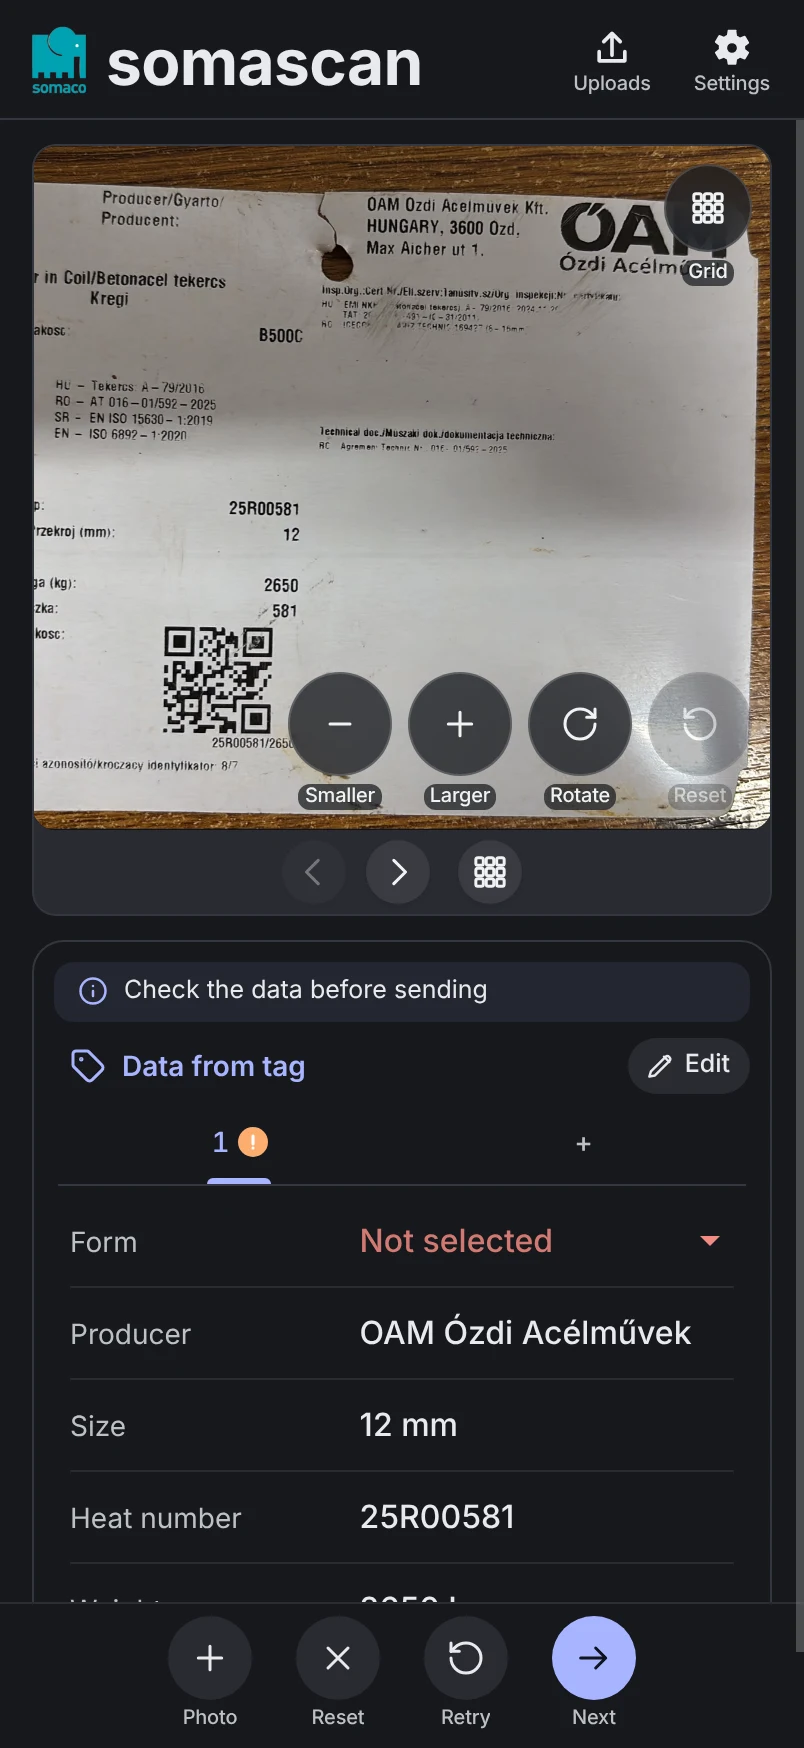
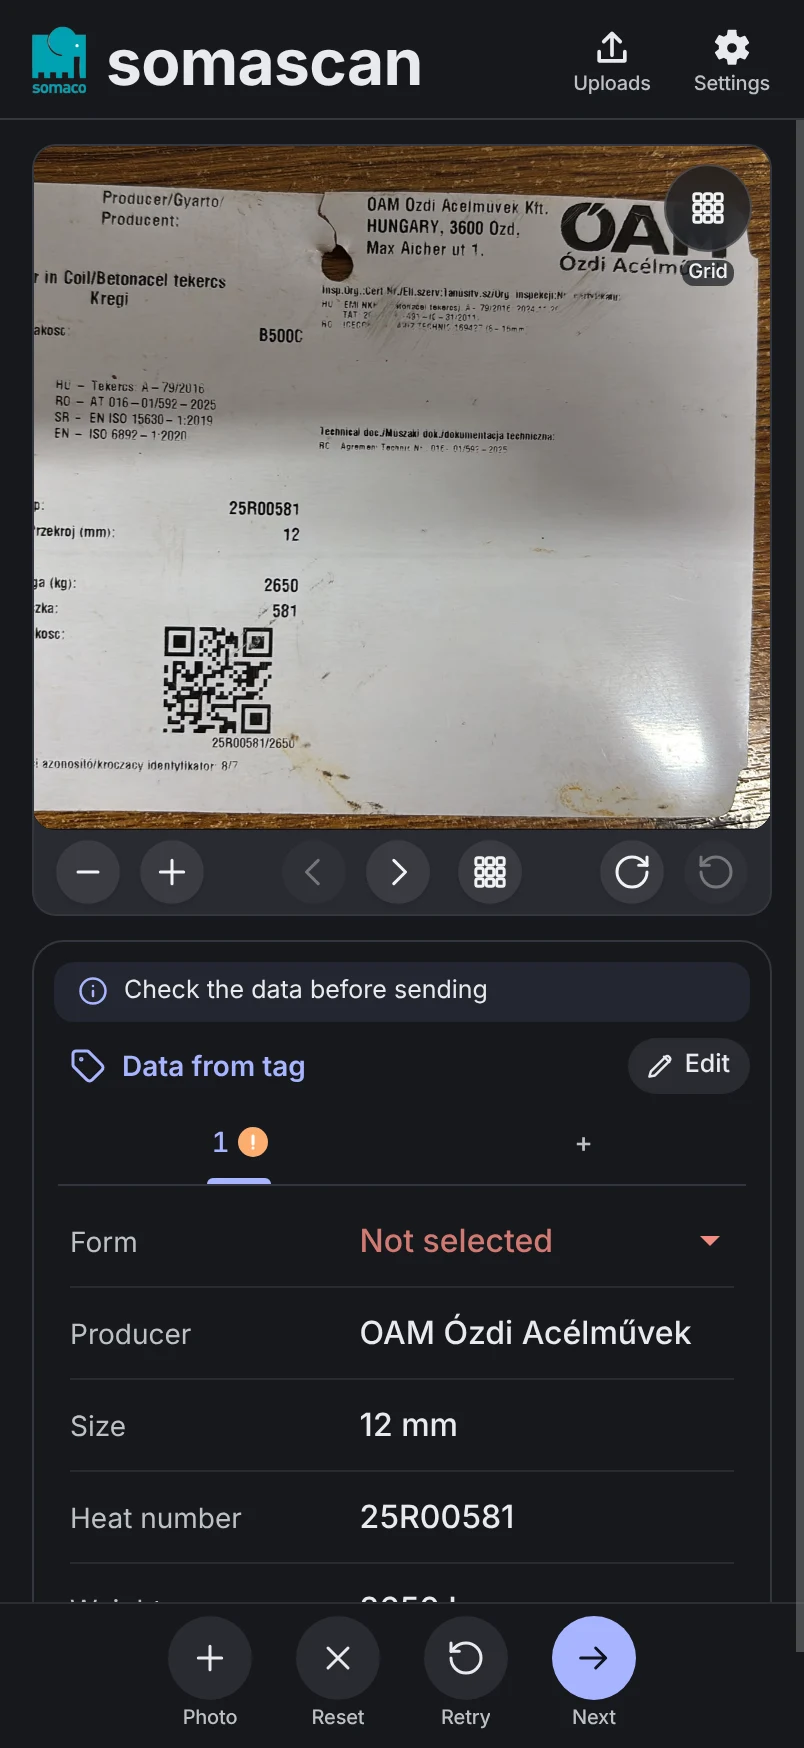
feat: + Photo card: the zoom and rotate buttons moved from the photo into the slide bar, on both sides of the arrows and the grid button — zoom out and zoom in on the left, rotate and reset on the right; the arrows stay centred + The side buttons appear only for a ready photo of a single tag (not in

diff --git a/src/features/workspace/components/SlideBar.tsx b/src/features/workspace/components/SlideBar.tsx
@@ -1,7 +1,8 @@
 import { useLayoutEffect, useRef } from 'react'
 import { useTranslation } from 'react-i18next'
-import { ChevronRightIcon, GridIcon, ImageIcon } from '@/components/icons/Icons'
+import { AddIcon, ChevronRightIcon, GridIcon, ImageIcon, ResetIcon, RotateClockwiseIcon, ZoomOutIcon } from '@/components/icons/Icons'
 import { ActionButton } from '@/components/ui/ActionButton'
+import type { PhotoTransform } from '../hooks/usePhotoTransform'
 import { motionTiming, prefersReducedMotion } from '../utils/motion'
 import './SlideBar.css'
 
@@ -27,6 +28,10 @@ export interface SlideBarProps {
   onOpen: () => void
   /** Показать все бирки сеткой (у одной бирки). */
   onShowGrid: () => void
+  /** Масштаб и поворот фото открытой бирки: кнопки по сторонам от листания. */
+  transform: PhotoTransform
+  /** Фото готово (одна бирка, фото есть и не загружается, не распознаётся): кнопки масштаба и поворота видны. */
+  toolsShown: boolean
   /** Панель уходит: схлопывается по высоте и гаснет (см. `usePresence`). */
   isClosing?: boolean
 }
@@ -35,7 +40,9 @@ export interface SlideBarProps {
  * Панель листания — нижняя часть блока фото: листать бирки (уголки влево и вправо) и справа от них
  * переключатель вида: в сетке — «Открыть» (тот же значок фото, что и в углу сетки) увеличивает выбранную
  * ячейку до одной бирки, у одной бирки — «Сетка» показывает все; в сетке уголки передвигают выбор
- * по ячейкам, у одной бирки — листают бирки как слайды.
+ * по ячейкам, у одной бирки — листают бирки как слайды. По сторонам от них — кнопки фото (только у готового
+ * фото одной бирки, иначе гаснут, не сдвигая листание): слева масштаб («меньше», «больше»), справа поворот
+ * и «Сброс» (исходный масштаб и поворот).
  * Кнопки компактные, без подписей (доступные имена — для экранных дикторов); на iOS 26+ — стеклянная
  * «пилюля» внутри блока.
  *
@@ -43,8 +50,9 @@ export interface SlideBarProps {
  * что и переход к сетке, — оба движения идут вместе), кнопки проявляются; карточка результата под блоком
  * съезжает вместе с ним, а не прыгает.
  */
-export function SlideBar({ activeIndex, positions, isGrid, onPrevious, onNext, onOpen, onShowGrid, isClosing = false }: SlideBarProps) {
+export function SlideBar({ activeIndex, positions, isGrid, onPrevious, onNext, onOpen, onShowGrid, transform, toolsShown, isClosing = false }: SlideBarProps) {
   const { t } = useTranslation('workspace')
+  const { canZoomIn, canZoomOut, isPristine, zoomIn, zoomOut, rotate, reset } = transform
   const barRef = useRef<HTMLDivElement>(null)
 
   useLayoutEffect(() => {
@@ -68,8 +76,9 @@ export function SlideBar({ activeIndex, positions, isGrid, onPrevious, onNext, o
     bar.classList.add('is-revealing')
     const animations = [
       bar.animate(isClosing ? [...frames].reverse() : frames, timing),
-      bar.firstElementChild?.animate(isClosing ? [...pillFrames].reverse() : pillFrames, timing),
-    ].filter((animation) => animation !== undefined)
+      // листание и кнопки фото по сторонам проявляются вместе
+      ...Array.from(bar.children, (child) => child.animate(isClosing ? [...pillFrames].reverse() : pillFrames, timing)),
+    ]
     let cancelled = false
     void Promise.all(animations.map((animation) => animation.finished)).then(() => {
       if (cancelled || isClosing) return
@@ -86,6 +95,10 @@ export function SlideBar({ activeIndex, positions, isGrid, onPrevious, onNext, o
 
   return (
     <div ref={barRef} className="slide-bar" role="group" aria-label={t('slides.group')} inert={isClosing || undefined}>
+      <div className={`slide-bar-tools is-start${toolsShown ? '' : ' is-hidden'}`} role="group" aria-label={t('photo.controls')} inert={!toolsShown || undefined}>
+        <ActionButton size={32} icon={<ZoomOutIcon />} caption={t('controls.zoomOut')} label={t('photo.zoomOut')} disabled={!canZoomOut} onClick={zoomOut} />
+        <ActionButton size={32} icon={<AddIcon />} caption={t('controls.zoomIn')} label={t('photo.zoomIn')} disabled={!canZoomIn} onClick={zoomIn} />
+      </div>
       <div className="slide-bar-pill">
         <ActionButton
           className="slide-bar-previous"
@@ -110,6 +123,10 @@ export function SlideBar({ activeIndex, positions, isGrid, onPrevious, onNext, o
         ) : (
           <ActionButton key="grid" className="slide-bar-toggle" size={32} icon={<GridIcon />} caption={t('slides.grid')} label={t('slides.gridLabel')} onClick={onShowGrid} />
         )}
+      </div>
+      <div className={`slide-bar-tools is-end${toolsShown ? '' : ' is-hidden'}`} role="group" aria-label={t('photo.controls')} inert={!toolsShown || undefined}>
+        <ActionButton size={32} icon={<RotateClockwiseIcon />} caption={t('controls.rotate')} label={t('photo.rotate')} onClick={rotate} />
+        <ActionButton size={32} icon={<ResetIcon />} caption={t('controls.reset')} label={t('controls.resetLabel')} disabled={isPristine} onClick={reset} />
       </div>
     </div>
   )

diff --git a/src/features/workspace/components/PhotoCard.tsx b/src/features/workspace/components/PhotoCard.tsx
@@ -11,7 +11,7 @@ import type { Size } from '../utils/PhotoGeometry'
 import type { PhotoTransform } from '../hooks/usePhotoTransform'
 import { motionTiming, prefersReducedMotion } from '../utils/motion'
 import type { RetakeHintReason } from '../utils/retakeHint'
-import { PhotoControls } from './PhotoControls'
+import { photoState } from '../utils/photoState'
 import { PhotoFrame } from './PhotoFrame'
 import { PhotoGrid } from './PhotoGrid'
 import { RetakeHint } from './RetakeHint'
@@ -102,9 +102,8 @@ export function PhotoCard({ handleRef, item, items, activeIndex, view, showBack,
   const { attachFrame, isZoomed, wasGesture, touchHandlers, pointerHandlers } = transform
   const photoUrl = item?.photoUrl ?? null
   const hasError = item?.hasError ?? false
-  const hasPhoto = Boolean(photoUrl) && !hasError
+  const { hasPhoto, isBusy } = photoState(item, isReceiving)
   const isManual = item?.manual ?? false
-  const isBusy = isReceiving || (item !== null && (item.isLoading || item.status.kind === 'recognizing') && !hasError)
   /** Нажатие на фото открывает просмотр, двойное — увеличивает фото к пальцу (у увеличенного — исходный вид). */
   const tapPhoto = useDoubleTap<string>({ onSingle: () => onOpen(), onDouble: (_, point) => transform.toggleZoomAt(point) })
   const overlay = usePresence(isBusy)
@@ -219,9 +218,9 @@ export function PhotoCard({ handleRef, item, items, activeIndex, view, showBack,
       }
       const stage = stageRef.current
       if (!stage || !ids.has(itemIdRef.current ?? '')) return { fly: [], hide: [] }
-      // Улетает фото (у бирки без фото — её заглушка), кнопки масштаба и поворота над ним гаснут.
+      // Улетает фото (у бирки без фото — её заглушка).
       const photo = stage.querySelector<HTMLElement>('.photo-image-action, .photo-manual')
-      return { fly: photo ? [photo] : [], hide: Array.from(stage.querySelectorAll<HTMLElement>('.photo-controls')) }
+      return { fly: photo ? [photo] : [], hide: [] }
     },
   }), [])
 
@@ -308,7 +307,6 @@ export function PhotoCard({ handleRef, item, items, activeIndex, view, showBack,
           </div>
         )}
 
-        {hasPhoto && !isBusy && <PhotoControls className="photo-controls anim-enter" transform={transform} showReset />}
 
         {/*
           Переходы: «Назад» к сетке слева, «Сетка» справа — над фото и над спиннером распознавания; между ними —

diff --git a/src/features/workspace/components/SlideBar.css b/src/features/workspace/components/SlideBar.css
@@ -1,13 +1,38 @@
 /*
  * Панель листания — нижняя полоса блока фото (под карточкой фото, в общей рамке цвета сетки):
- * ‹, ›, «Открыть», компактные. Android и iOS 18 — кнопки в полосе; iOS 26+ — стеклянная «пилюля».
+ * ‹, ›, «Открыть» по центру, по сторонам — кнопки фото (масштаб слева, поворот и «Сброс» справа), все компактные.
+ * Android и iOS 18 — кнопки в полосе; iOS 26+ — стеклянные «пилюли».
  */
 
 .slide-bar {
-  display: flex;
+  display: grid;
   box-sizing: border-box;
-  justify-content: center;
+  /* листание — точно по центру, кнопки фото — у краёв */
+  grid-template-columns: 1fr auto 1fr;
+  align-items: center;
   padding: 5px 12px 6px;
+}
+
+.slide-bar-tools {
+  display: flex;
+  align-items: center;
+  gap: 10px;
+  transition: opacity 240ms ease, visibility 0s;
+}
+
+.slide-bar-tools.is-start {
+  justify-self: start;
+}
+
+.slide-bar-tools.is-end {
+  justify-self: end;
+}
+
+/* Нет готового фото (сетка, пустая ячейка, загрузка, распознавание): кнопки гаснут, место за ними остаётся. */
+.slide-bar-tools.is-hidden {
+  opacity: 0;
+  visibility: hidden;
+  transition: opacity 240ms ease, visibility 0s 240ms;
 }
 
 /* Появление и исчезновение (высота анимируется, см. SlideBar.tsx): содержимое не вылезает за панель. */
@@ -74,7 +99,7 @@
   padding: 5px 12px 7px;
 }
 
-:root[data-platform='ios'][data-ios-design='glass'] .slide-bar-pill {
+:root[data-platform='ios'][data-ios-design='glass'] :is(.slide-bar-pill, .slide-bar-tools) {
   gap: 8px;
   padding: 3px 6px;
   background: var(--glass-bg);

diff --git a/src/features/workspace/ScanWorkspace.tsx b/src/features/workspace/ScanWorkspace.tsx
@@ -17,6 +17,7 @@ import { useSendSelected } from './hooks/useSendSelected'
 import { usePhotoPicker } from './hooks/usePhotoPicker'
 import { usePhotoTransform } from './hooks/usePhotoTransform'
 import { IDLE, isRecognizable, MAX_SCAN_ITEMS, useScanSession } from './hooks/useScanSession'
+import { photoState } from './utils/photoState'
 import { retakeHintReason } from './utils/retakeHint'
 import { tagState } from './utils/tagState'
 import './ScanWorkspace.css'
@@ -359,6 +360,9 @@ export function ScanWorkspace() {
 
   /** Панель листания — когда есть что листать или открыта сетка (из неё надо выйти и в пустом списке). */
   const hasSlideBar = session.items.length > 0 || view === 'grid'
+  /** Фото открытой бирки готово (есть, не загружается и не распознаётся): кнопки масштаба и поворота — в панели листания. */
+  const { hasPhoto: photoShown, isBusy: photoBusy } = photoState(item, picker.isReceiving)
+  const photoReady = photoShown && !photoBusy
   /** Панель выезжает и уходит плавно: пока она схлопывается, остаётся в DOM. */
   const slideBar = usePresence(hasSlideBar, SLIDE_BAR_EXIT_MS)
 
@@ -410,6 +414,8 @@ export function ScanWorkspace() {
             onNext={() => goNext?.()}
             onOpen={closeGrid}
             onShowGrid={showGrid}
+            transform={transform}
+            toolsShown={view === 'single' && photoReady}
           />
         )}
       </div>

diff --git a/src/features/workspace/utils/photoState.ts b/src/features/workspace/utils/photoState.ts
@@ -1,0 +1,22 @@
+import type { ScanItem } from '../hooks/useScanSession'
+
+/** Что с фото открытой бирки: есть ли оно и не занята ли бирка (фото загружается или распознаётся). */
+export interface PhotoState {
+  /** Фото есть и открылось. */
+  hasPhoto: boolean
+  /** Фото ещё загружается или распознаётся (или с телефона принимается новое): поверх фото — ожидание. */
+  isBusy: boolean
+}
+
+/**
+ * Состояние фото открытой бирки — одно для карточки фото (ожидание поверх фото) и панели листания
+ * (кнопки масштаба и поворота — только у готового фото).
+ * @param isReceiving Принимается новое фото (выбор в галерее, камера).
+ */
+export function photoState(item: ScanItem | null, isReceiving: boolean): PhotoState {
+  const hasError = item?.hasError ?? false
+  return {
+    hasPhoto: Boolean(item?.photoUrl) && !hasError,
+    isBusy: isReceiving || (item !== null && (item.isLoading || item.status.kind === 'recognizing') && !hasError),
+  }
+}

diff --git a/src/features/workspace/components/PhotoCard.css b/src/features/workspace/components/PhotoCard.css
@@ -312,16 +312,6 @@
   -webkit-user-drag: none;
 }
 
-.photo-controls {
-  position: absolute;
-  z-index: 2;
-  right: 10px;
-  bottom: 10px;
-  display: flex;
-  align-items: flex-start;
-  gap: 8px;
-}
-
 /* Один оверлей на всё ожидание: загрузка фото и распознавание. */
 .photo-loading {
   position: absolute;
